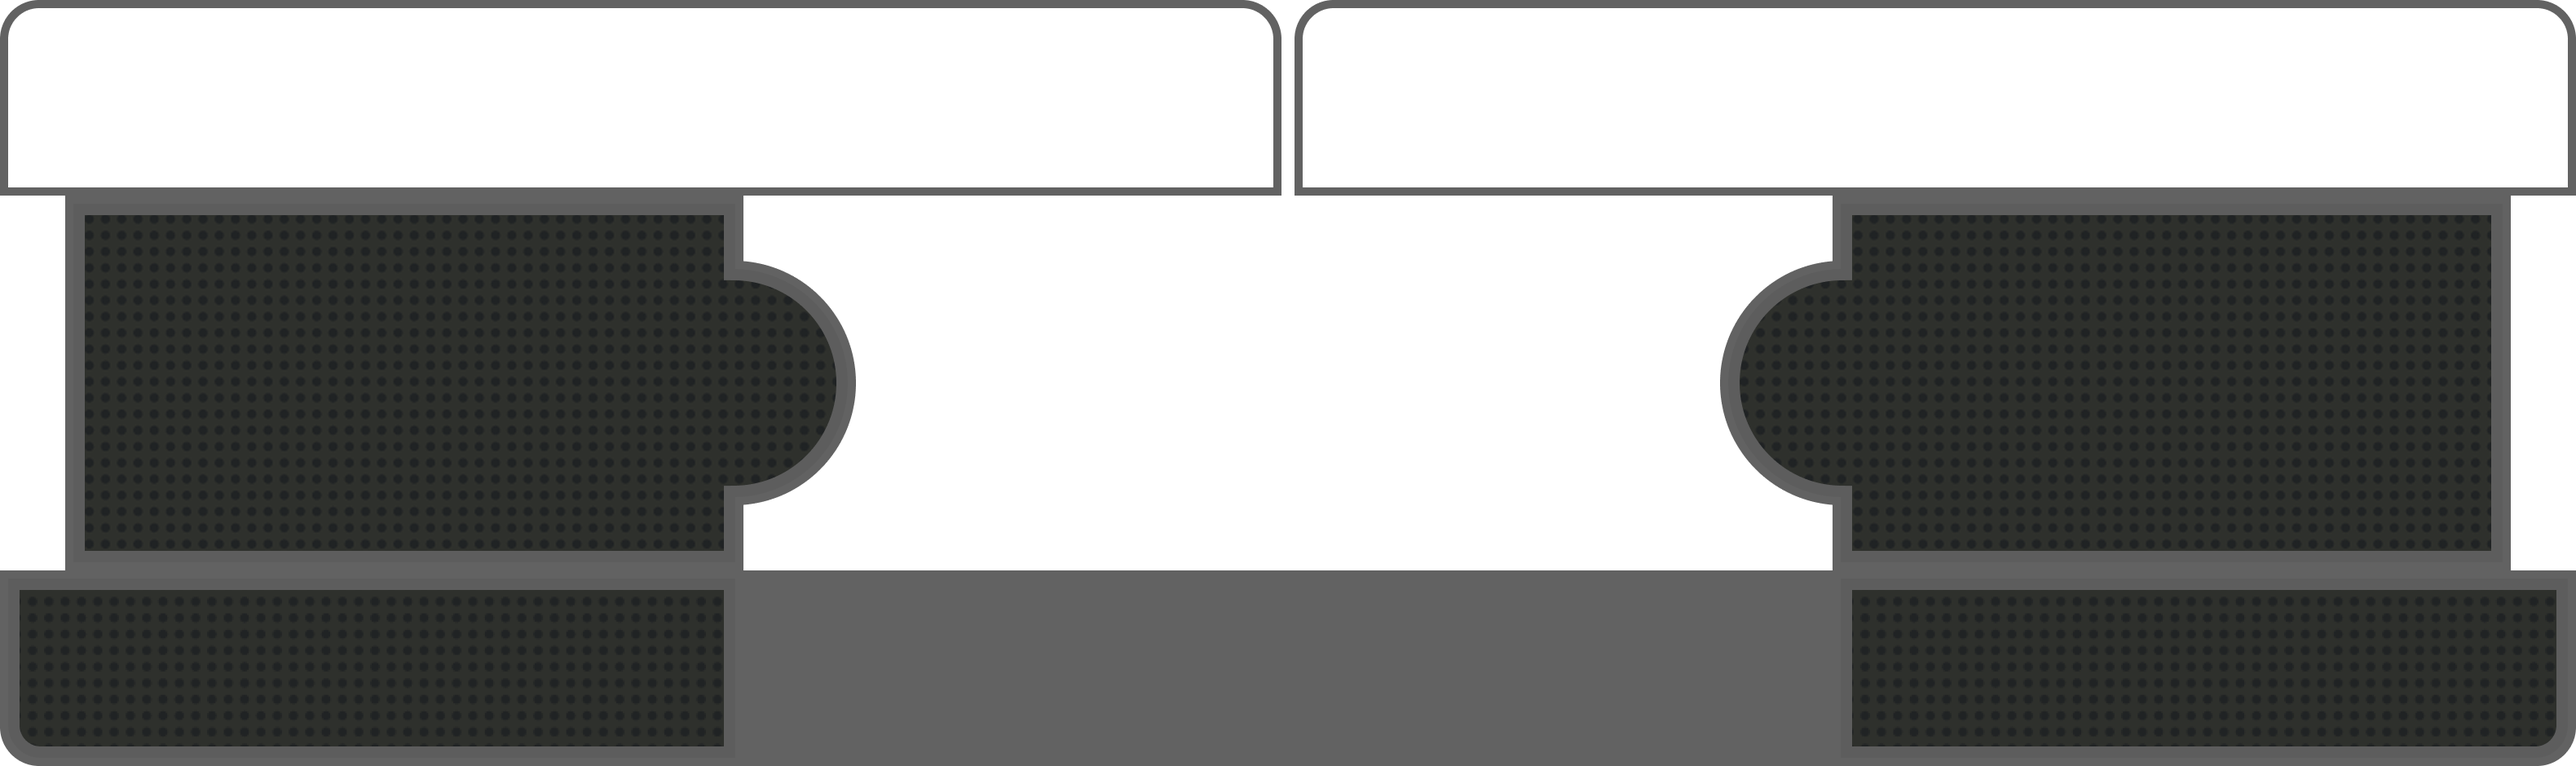
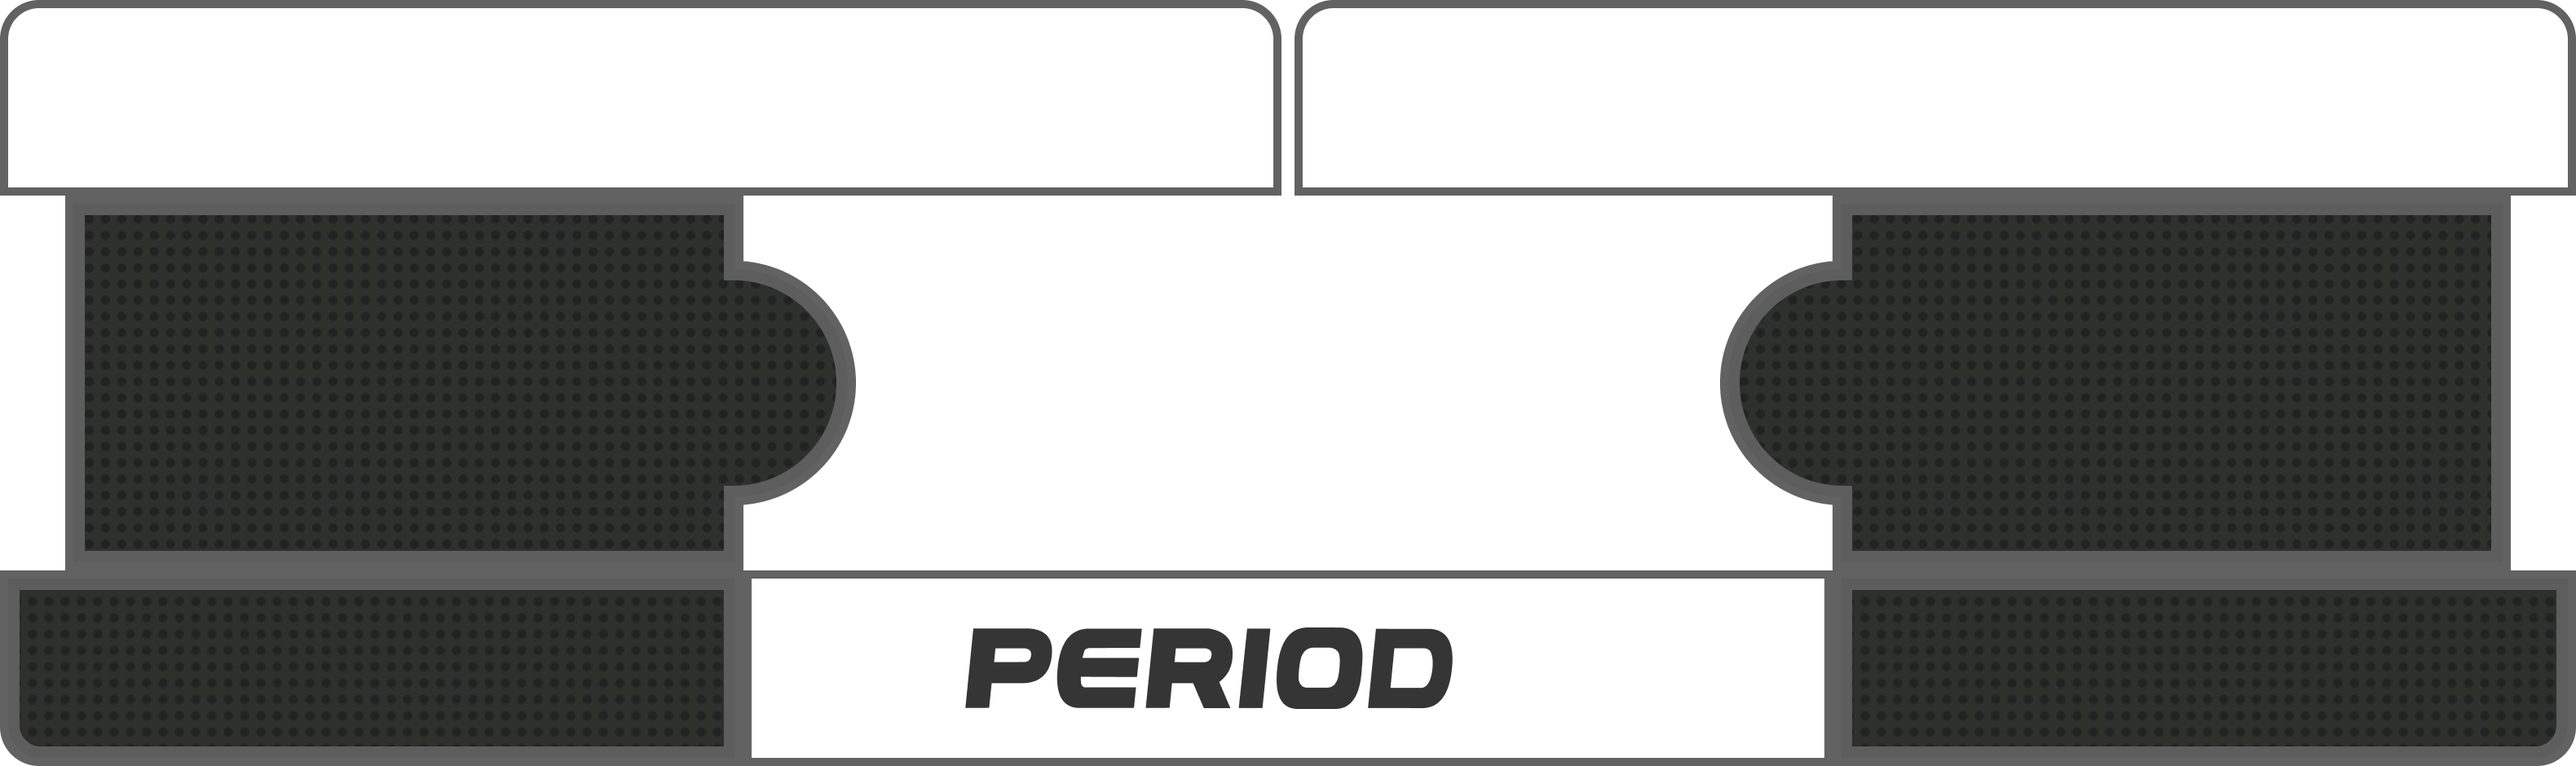
Update wrestling layouts, add new images

Changed region(s): [[0.2791, 0.7404, 0.7133, 1.0]]

diff --git a/src/utils/imageManifest.generated.ts b/src/utils/imageManifest.generated.ts
@@ -1,7 +1,7 @@
 // AUTO-GENERATED FILE - DO NOT EDIT MANUALLY
 // Run `npm run sync-images` from the project root to regenerate
 //
-// Generated: 2026-03-20T14:21:47.521Z
+// Generated: 2026-03-23T15:19:04.772Z
 
 // Available sports (auto-detected from folder structure)
 export const AVAILABLE_SPORTS = ["Baseball","Basketball","Fallback","Football","Generic","Lacrosse-Hockey-Waterpolo","Leaderboard","Mocks","Rugby","Sequence","Soccer","Tennis","Universal","Utility","Volleyball","Wrestling","scoreTable","shootout"] as const;
